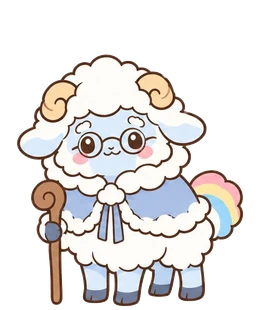
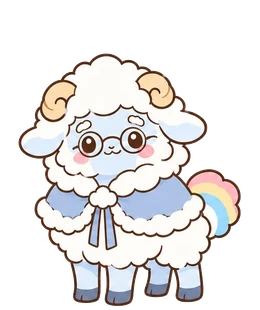
ふわりん の おとしより を つえ なしの え に さしかえ

Changed region(s): [[0.0615, 0.1742, 0.9538, 0.9871], [0.2462, 0.2323, 0.3077, 0.3194]]

diff --git a/index.html b/index.html
@@ -5,9 +5,9 @@
 <link rel="icon" type="image/png" sizes="64x64" href="favicon.png?v=3">
 <link rel="apple-touch-icon" href="apple-touch-icon.png?v=3">
 <link rel="manifest" href="manifest.json">
-<script src="stickers/stickers.js?v=202610092033"></script>
-<script src="nakama/nakama.js?v=202610092033"></script>
-<script src="clock/clock.js?v=202610092033"></script>
+<script src="stickers/stickers.js?v=202610092114"></script>
+<script src="nakama/nakama.js?v=202610092114"></script>
+<script src="clock/clock.js?v=202610092114"></script>
 <meta name="apple-mobile-web-app-title" content="けいさん">
 <link rel="preconnect" href="https://fonts.googleapis.com">
 <link rel="preconnect" href="https://fonts.gstatic.com" crossorigin>
@@ -2343,7 +2343,8 @@ body.course .ck-ctl .choice{padding:4px 0;font-size:24px}
   const nkSp = id => NK_LIST.find(x=>x.id===id) || NK_LIST[0];
   // ちいさい だんかいは すこし おおきく みせる（そだって いる かんじは のこす）
   const NK_SCALE = [1.9, 1.5, 1.15, 1, 1, 1];
-  const nkImgSrc = (id, stage, mood) => `nakama/${id}/${NK_STAGES[stage]}_${stage===0 && mood==="s" ? "n" : mood}.webp`;
+  const NK_IMG_VER = "2";   // なかまの え を さしかえたら ばんごうを あげる（ふるい え が のこらない ように）
+  const nkImgSrc = (id, stage, mood) => `nakama/${id}/${NK_STAGES[stage]}_${stage===0 && mood==="s" ? "n" : mood}.webp?v=${NK_IMG_VER}`;
   const dkDate = k => { const [y,m,d]=k.split("-").map(Number); return new Date(y, m-1, d); };
   const dkAdd = (k, n) => { const d=dkDate(k); d.setDate(d.getDate()+n); return dayKey(d); };
   const dkDiff = (a, b) => Math.round((dkDate(b)-dkDate(a))/86400000);   // b − a（にち）
